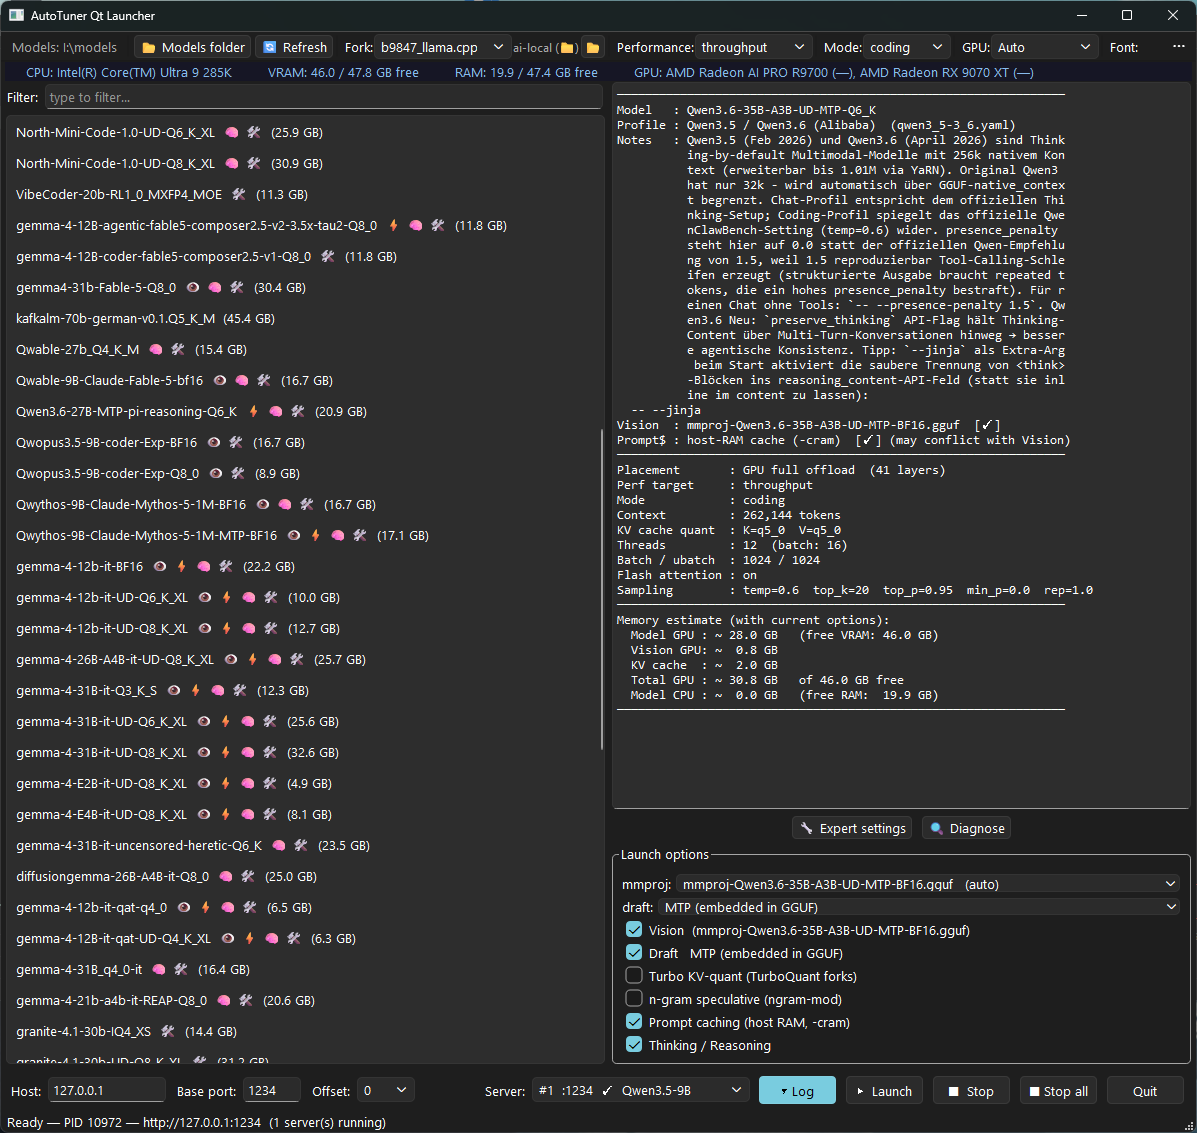
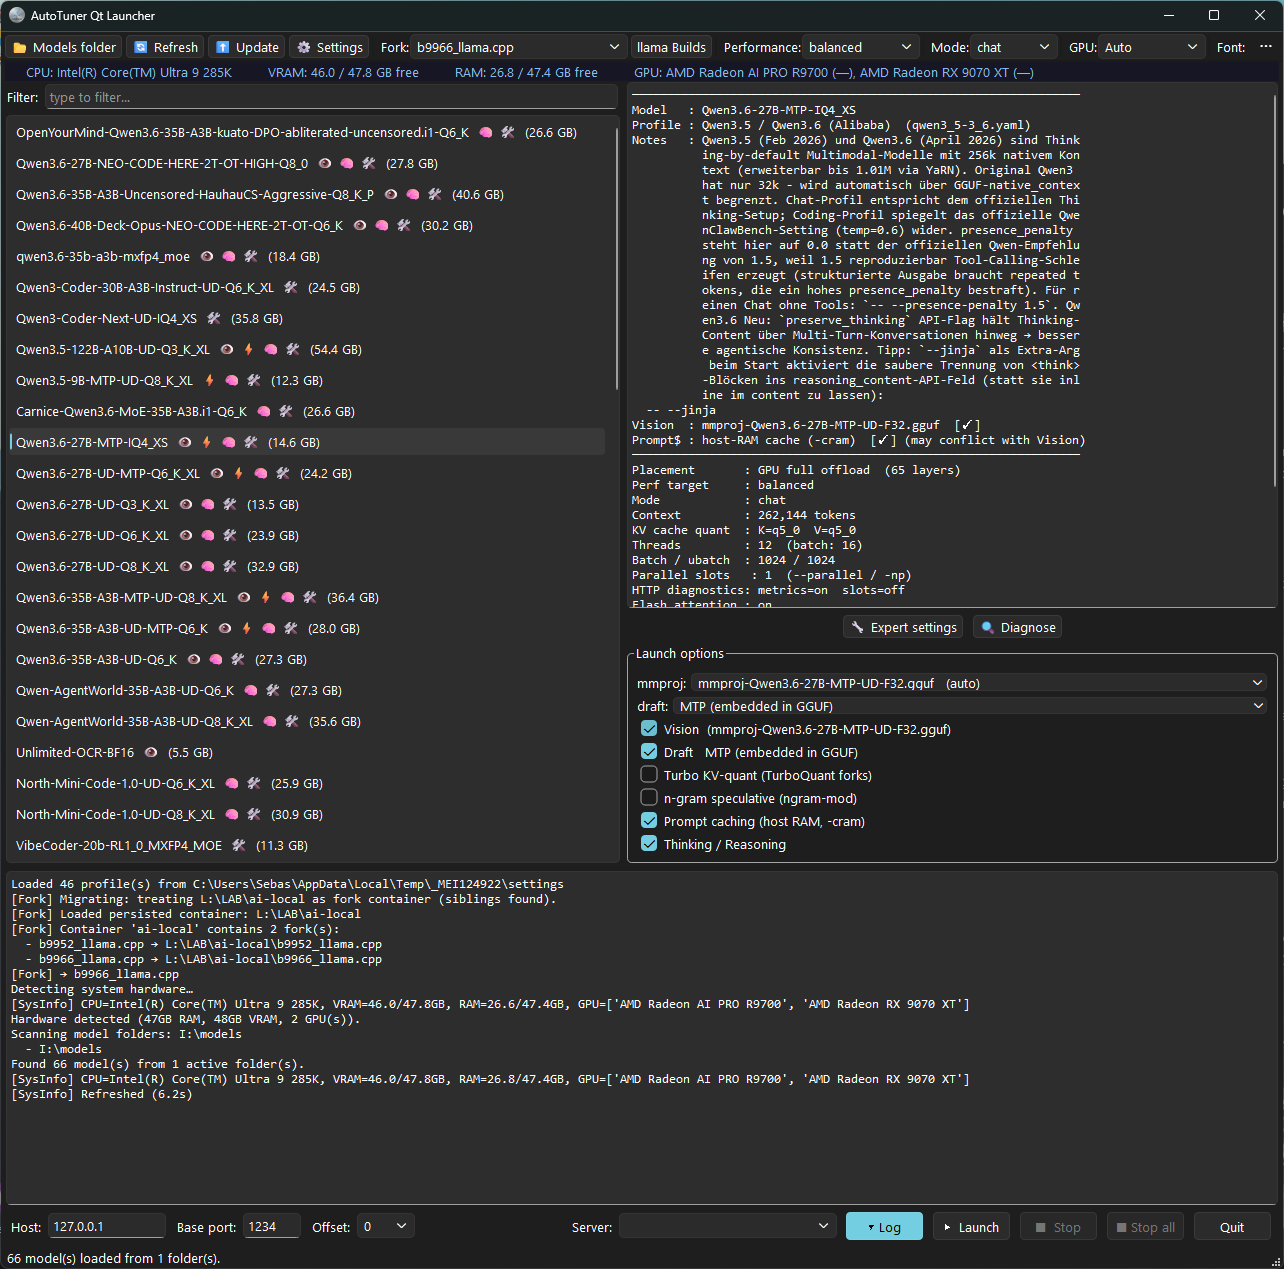
v4.9.5 added agents-a1, hy-mt2 yamls

diff --git a/test_smoke.py b/test_smoke.py
@@ -3288,12 +3288,12 @@ def test_deepseek2_family_does_not_collide() -> None:
 
 
 def test_hunyuan_dense_vs_moe_split() -> None:
-    """Hunyuan-MT (dense, translation, top_p 0.6) and Hunyuan-A13B (MoE,
-    chat, top_p 0.8) must use different profiles. The dense profile must no
-    longer swallow the MoE model."""
+    """Hunyuan-MT (dense, translation, top_p 0.6), Hunyuan-A13B (MoE, chat,
+    top_p 0.8) and the new Hy-MT2 family (hy_v3, top_p 1.0) must all use
+    different profiles."""
     profiles = load_profiles(SETTINGS_DIR)
 
-    mt = match_profile("Hy-MT2-7B-UD-Q8_K_XL.gguf", profiles, "hunyuan-dense")
+    mt = match_profile("Hunyuan-MT-7B-UD-Q8_K_XL.gguf", profiles, "hunyuan-dense")
     assert "Hunyuan-MT" in mt.display_name
     # dense MT profile keeps the translation sampling (top_p 0.6)
     assert mt.sampling["chat"]["top_p"] == 0.6
@@ -3302,6 +3302,39 @@ def test_hunyuan_dense_vs_moe_split() -> None:
     assert "A13B" in a13b.display_name
     # MoE chat profile uses top_p 0.8 (NOT the translation 0.6)
     assert a13b.sampling["chat"]["top_p"] == 0.8
+
+    # Hy-MT2 (May 2026, arch hy_v3): the longer "hy-mt2" pattern must beat
+    # the old "hy-mt" pattern in hunyuan.yaml, for all sizes incl. the
+    # 30B-A3B MoE. Official sampling is top_p 1.0 / top_k off / rep 1.0.
+    for fname in ("Hy-MT2-30B-A3B-Q4_K_M.gguf", "Hy-MT2-7B-UD-Q8_K_XL.gguf"):
+        mt2 = match_profile(fname, profiles, "hy_v3")
+        assert "Hy-MT2" in mt2.display_name, fname
+        assert mt2.sampling["chat"]["top_p"] == 1.0, fname
+        assert mt2.sampling["chat"]["repeat_penalty"] == 1.0, fname
+
+    # arch_fallback: a hy_v3 re-quant without a matching filename must still
+    # land on the Hy-MT2 profile (not hunyuan-dense, not _default).
+    requant = match_profile("some-translation-requant.gguf", profiles, "hy_v3")
+    assert "Hy-MT2" in requant.display_name
+
+
+def test_agents_a1_profile() -> None:
+    """Agents-A1 (Qwen3.5-35B-A3B based) gets its own profile via filename
+    pattern; generic qwen35moe re-quants must still land on qwen3_5-3_6."""
+    profiles = load_profiles(SETTINGS_DIR)
+
+    a1 = match_profile("Agents-A1-Q4_K_M.gguf", profiles, "qwen35moe")
+    assert "Agents-A1" in a1.display_name
+    # official card sampling: temp 0.85 / top_p 0.95 / top_k 20
+    assert a1.sampling["chat"]["temperature"] == 0.85
+    assert a1.sampling["chat"]["top_p"] == 0.95
+    # must NOT claim the shared qwen35moe arch (would hijack generic
+    # Qwen3.5 re-quants from qwen3_5-3_6.yaml — same rule as ornith.yaml)
+    assert "qwen35moe" not in a1.arch_fallback
+    assert "qwen35" not in a1.arch_fallback
+
+    generic = match_profile("random-qwen-requant.gguf", profiles, "qwen35moe")
+    assert "Qwen3.5" in generic.display_name
 
 
 def test_ling_2_0_mainline_vs_2_6_fork() -> None:

diff --git a/README.md b/README.md
@@ -7,109 +7,7 @@ the RAM/VRAM you actually have free — without manual edits.
 
 # GUI-Design
 
-![GUI](image.png)
-
-# Terminal-Design
-
-```
-────────────────────────────────────────────────────────────────
-  AutoTuner for llama.cpp  —  interactive launcher
-────────────────────────────────────────────────────────────────
-
-============================================================
-  DEBUG / VERBOSE MODE SELECTION
-============================================================
-  1. Debugging OFF (default)
-  2. Debugging ON (all categories)
-------------------------------------------------------------
-  Category debugging (individual areas):
-  3. Hardware detection (GPU/RAM/CPU)
-  4. Model scanning & profile matching
-  5. Server-path discovery (llama.cpp)
-  6. Configuration computation (KV cache, context)
-------------------------------------------------------------
-Choice [1-6] (default 1):
-[AutoTuner] Debugging disabled.
-============================================================
-
-
-========================================
-  QUANTIZATION MODE SELECTION
-========================================
-  1. Standard-Quant (llama.cpp)
-  2. Turbo-Quant (tq_llama.cpp)
-----------------------------------------
-Select mode [1/2] (default 1):
-[AutoTuner] Standard-Quant mode selected.
-========================================
-
-OS:   Windows 11
-CPU:  Intel(R) Core(TM) Ultra 9 285K (24C/24T)
-RAM:  47.4 GB total, 18.1 GB free
-GPU1: [amd] AMD Radeon AI PRO R9700 (32.0 GB total, 31.0 GB free)
-GPU2: [amd] AMD Radeon RX 9070 XT (15.9 GB total, 14.0 GB free)
-      (ignored: [intel] Intel(R) Graphics, 2.0 GB — too small or auxiliary)
-
-[AutoTuner] Scanning models in: C:\LAB\ai-local\models
-[AutoTuner] Loaded 17 profile(s) from C:\GitHub\Auto Tuner\settings
-
-Available models:
-────────────────────────────────────────────────────────────────
-  Symbols: 👁 vision · ⚡ draft · 🧠 thinking · 🛠 tool-use
-  ...
-
-  [Alibaba/Qwen3.6]
-    7.  👁 🧠 🛠   Qwen3.6-27B-UD-Q3_K_XL                              13.5 GB  (256k native)
-    8.  👁 🧠 🛠   Qwen3.6-35B-A3B-UD-IQ3_S                            12.7 GB  (256k native)
-  ...
-
-  [Google]
-  ...
-    16.  👁 ⚡ 🧠   gemma-4-26B-A4B-it-UD-IQ4_XS                        14.0 GB  (128k native)
-    17.  👁         gemma-4-E2B-it-BF16                                 8.7 GB  (128k native)
-  ...
-
-  [IBM]
-    21.   🛠         granite-4.1-30b-IQ4_XS                             14.4 GB  (128k native)
-    22.   🛠         granite-4.1-3b-UD-Q8_K_XL                           4.0 GB  (128k native)
-  ...
-
-  [Mistral AI]
-    36.  👁 🛠       Mistral-Medium-3.5-128B-UD-IQ3_XXS                 45.9 GB  (256k native)
-
-  [NVIDIA]
-    37.  👁 🧠 🛠   NVIDIA-Nemotron-3-Nano-Omni-30B-A3B-Reasoning-…    18.2 GB  (1024k native)
-
-  [PrismML]
-    38.              Bonsai-8B                                           1.1 GB  (64k native)
-  ...
-
-Select a model [1-40, q to quit]: 16
-Enable vision? (mmproj-gemma-4-26B-A4B-it-BF16.gguf) [Y/n] y
-Enable draft model? (gemma-4-26B-A4B-it-assistant-Q8_0) [Y/n] n
-Enable thinking/reasoning? (<|think|> / <|reserved_special_token>) [Y/n] y
-────────────────────────────────────────────────────────────────
-Model:    gemma-4-26B-A4B-it-UD-IQ4_XS
-Profile:  Gemma 4 (Google)  (gemma-4.yaml)
-Notes:    Gemma is sensitive to repeat_penalty > 1.0. E2B/E4B = multimodal (text+image+audio), 26B-A4B + 31B = text+image. Thinking mode is enabled by putting <|think|> at the start of the system prompt. Tip: some community tests show Gemma 4 performs better for coding even at temp=1.5 — override with `-- --temp 1.5` if needed.
-Vision:   mmproj-gemma-4-26B-A4B-it-BF16.gguf
-────────────────────────────────────────────────────────────────
-  Placement       : GPU full offload (ngl=all of 60)
-  Context         : 111,616 tokens
-  KV cache quant  : K=q4_0  V=q4_0
-  Threads         : 8 (batch: 16)
-  Batch / ubatch  : 1024 / 512
-  Flash attention : on
-  Sampling        : temp=1.0 top_k=64 top_p=0.95 min_p=0.0 rep=1.0
-
-  Memory estimate:
-    model on GPU  ~  12.3 GB    (free VRAM:   15.1 GB)
-    model on CPU  ~   0.0 GB    (free RAM:    18.1 GB)
-    KV cache      ~  17.4 GB
-────────────────────────────────────────────────────────────────
-[AutoTuner] Found server binary: C:\LAB\ai-local\llama.cpp\build\bin\Release\llama-server.exe
-Launch llama-server now? [Y/n]
-```
+![v4.9.5](image.png)
 
 ## Features
 